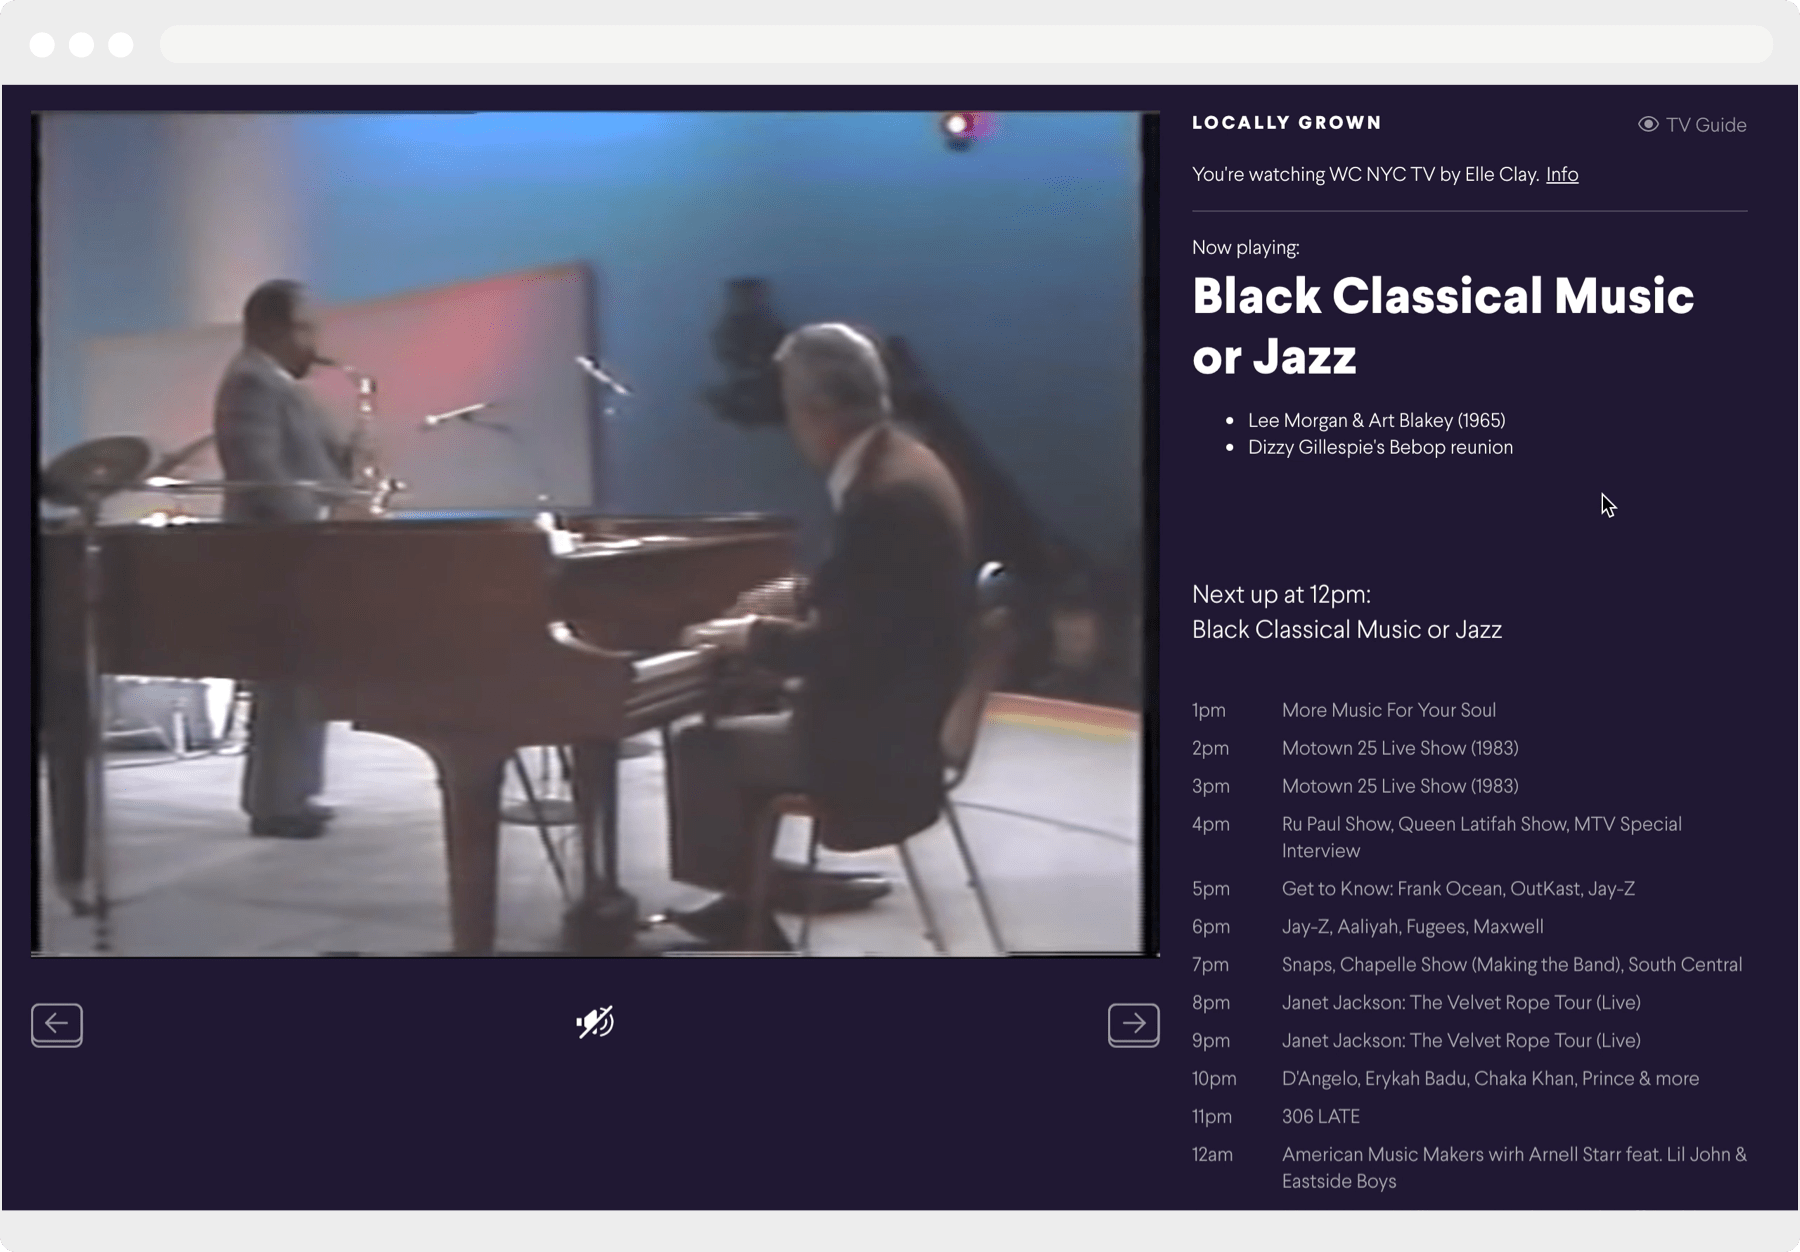
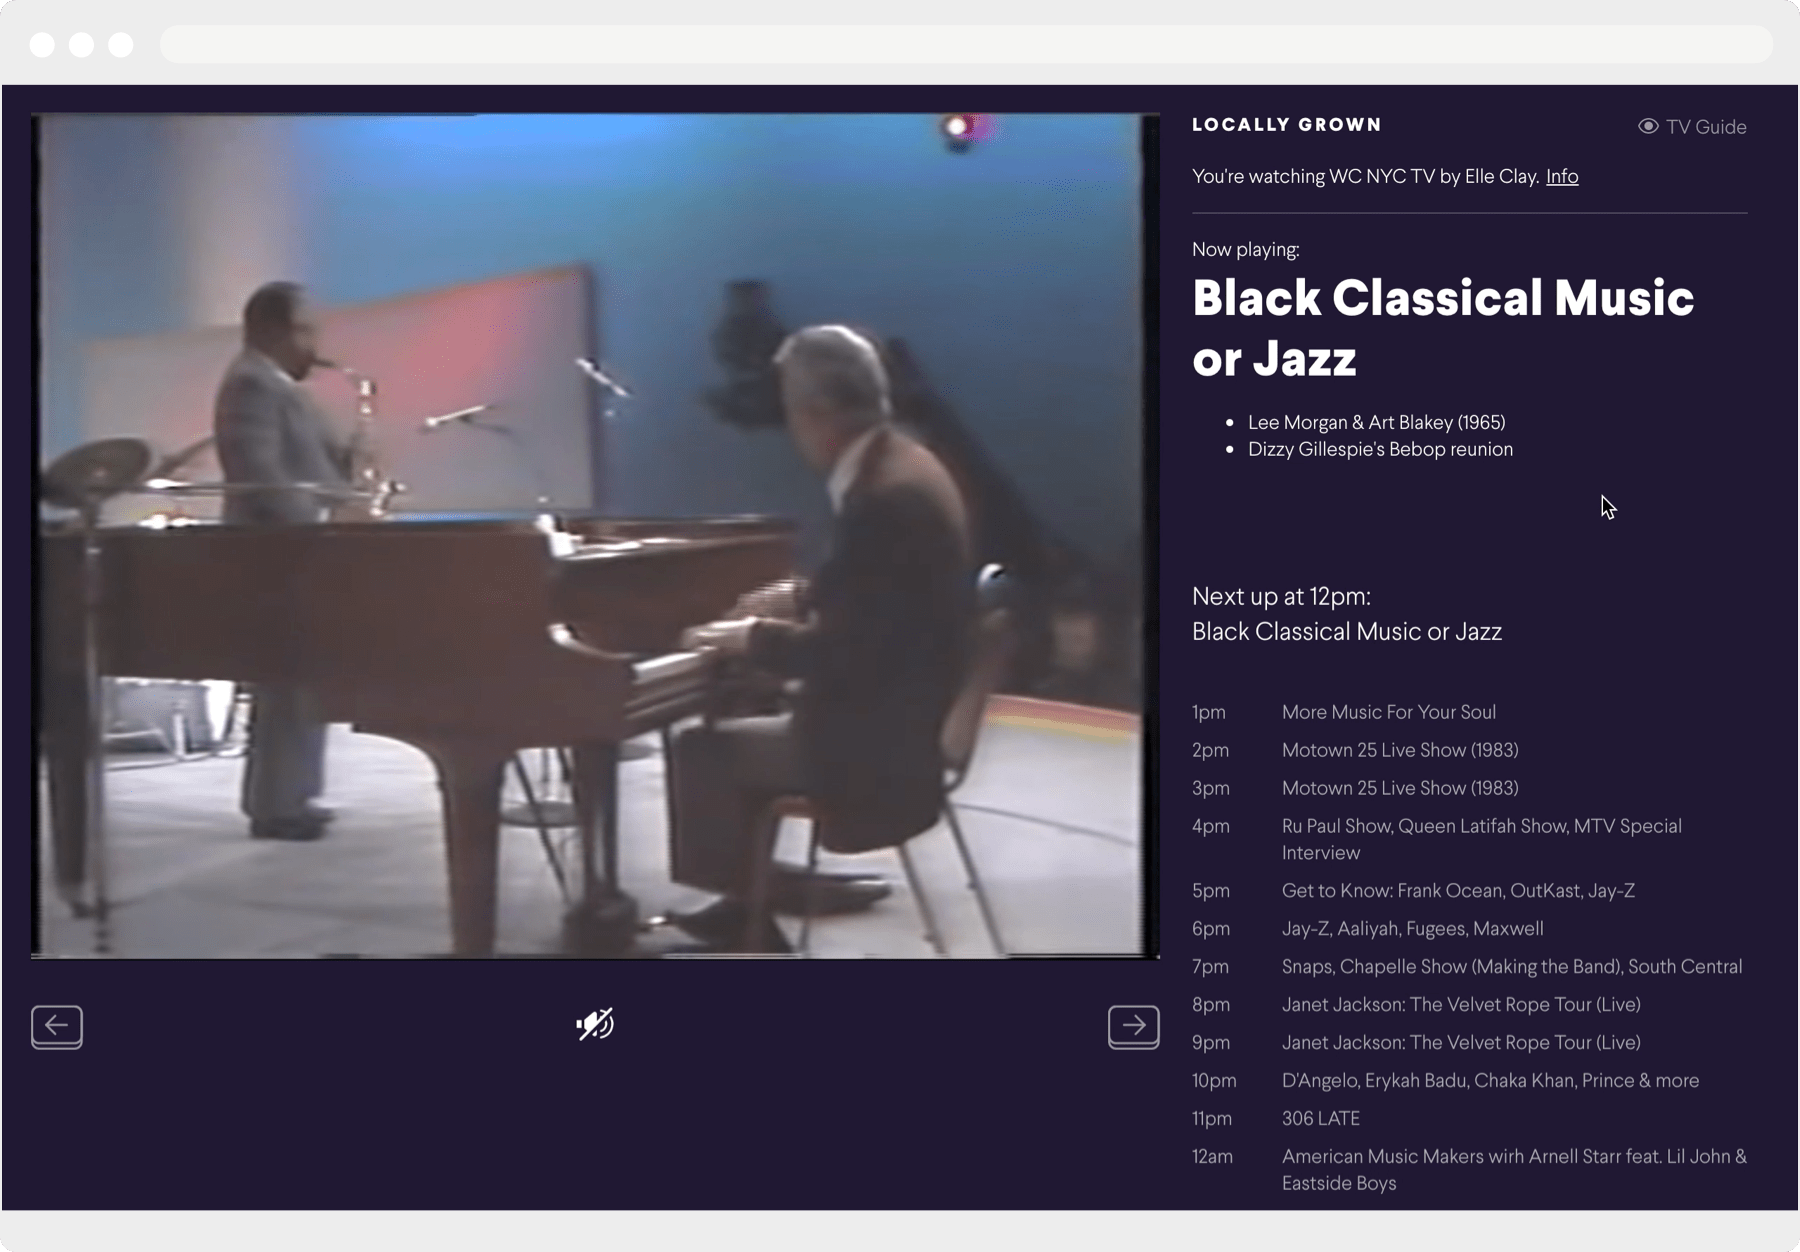
Exactly position the browser in the frame
To match the Sketch file.

diff --git a/src/slidesData.js b/src/slidesData.js
@@ -168,7 +168,7 @@ export const SLIDES = [
     title: 'Aidin',
     role: 'Head of Product @ Aidin',
     slides: [
-      { name: 'aidin-overview-video', type: 'video', src: './images/aidin-sending-dashboard-zoomed.png', videoSrc: 'https://js-portfolio-2017.s3.amazonaws.com/aidin-overview-video-compressed.mp4', alt: 'Aidin Dashboard' },
+      { name: 'aidin-overview-video', type: 'video', src: './images/aidin-sending-dashboard-overview.png', videoSrc: 'https://js-portfolio-2017.s3.amazonaws.com/aidin-overview-video-compressed.mp4', alt: 'Aidin Dashboard' },
       { name: 'aidin-before-after', type: 'image', src: './images/aidin-before-after.png', alt: 'Aidin Before & After' },
       { name: 'aidin-sending-referral', type: 'image', src: './images/aidin-sending-referral.png', alt: 'Sending Aidin Referrals' },
       { name: 'aidin-receiving-referral', type: 'image', src: './images/aidin-receiving-referral.png', alt: 'Receiving Aidin Referrals' },

diff --git a/src/SlideshowStyles.js b/src/SlideshowStyles.js
@@ -115,7 +115,7 @@ const sharedSlideVideoImageStyles = `
 export const SlideVideo = styled(SlideImage)`
   ${sharedSlideVideoImageStyles}
 
-  top: ${(40 / 626) * 100 + "%"}; // Percentage down from top of browser frame
+  top: ${(42 / 626) * 100 + "%"}; // Percentage down from top of browser frame
   z-index: 1;
 `;
 
